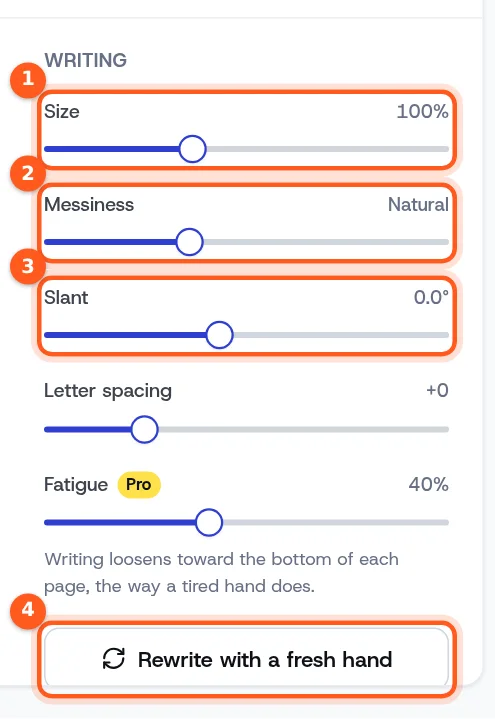
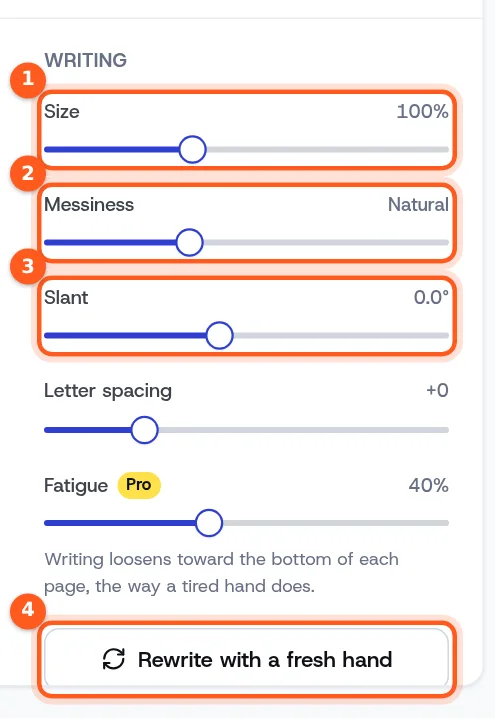
Guide: how to turn your own handwriting into a font
- New starter guide, step by step with screenshots: sign in, fill in the
  template, take the photo, check what was read, save and unlock, write with it,
  or draw the letters on a phone
- Guide screenshots retaken with the current design; the script now signs in
  and captures the handwriting flow too
- Fix the Pro tag stretching beside your handwriting in the Hand picker
- Shorter heading on the drawing pad so it fits on a phone

diff --git a/apps/web/scripts/guide-shots.ts b/apps/web/scripts/guide-shots.ts
@@ -3,14 +3,20 @@
  * the real editor. Each shot outlines and numbers the controls its step talks
  * about. Re-run it whenever the editor changes:
  *
- *   pnpm --filter @truehand/web build && pnpm --filter @truehand/web start
- *   CHROME_PATH=/path/to/chrome pnpm --filter @truehand/web guide:shots http://localhost:3000
+ *   pnpm --filter @truehand/web build && pnpm --filter @truehand/web start > server.log
+ *   GUIDE_SERVER_LOG=server.log CHROME_PATH=/path/to/chrome pnpm --filter @truehand/web guide:shots http://localhost:3000
+ *
+ * Making your own handwriting needs an account, so the script signs in with a
+ * throwaway email and reads the code from the server's log (without an email
+ * provider set up, the server prints the code instead of sending it).
  *
  * Writes public/guides/<name>.webp and src/content/guide-images.json (sizes).
  */
-import { mkdirSync, writeFileSync } from "node:fs";
+import { mkdirSync, readFileSync, writeFileSync } from "node:fs";
+import { tmpdir } from "node:os";
 import { join } from "node:path";
 import { createCanvas, loadImage } from "@napi-rs/canvas";
+import { fakeTemplatePhoto, PHOTO } from "../test/fixtures/fake-photo";
 import { chromium, type Browser, type Locator, type Page } from "playwright-core";
 
 const BASE = (process.argv[2] ?? "http://localhost:3000").replace(/\/$/, "");
@@ -98,12 +104,14 @@ async function shoot(page: Page, name: string, area: Box, pad = 30) {
   console.log(`  ${name}  ${img.width}×${img.height}`);
 }
 
-async function open(browser: Browser, path: string, phone = false) {
-  const context = await browser.newContext(
-    phone
+async function open(browser: Browser, path: string, phone = false, country?: string) {
+  const context = await browser.newContext({
+    ...(phone
       ? { viewport: { width: 390, height: 844 }, deviceScaleFactor: 2, isMobile: true, hasTouch: true, acceptDownloads: true }
-      : { viewport: { width: 1440, height: 1000 }, deviceScaleFactor: 1.5, acceptDownloads: true },
-  );
+      : { viewport: { width: 1440, height: 1000 }, deviceScaleFactor: 1.5, acceptDownloads: true }),
+    // Prices show in the visitor's currency; Vercel says where they are with this header.
+    ...(country ? { extraHTTPHeaders: { "x-vercel-ip-country": country } } : {}),
+  });
   const page = await context.newPage();
   await page.goto(BASE + path, { waitUntil: "load" });
   await page.addStyleTag({ content: CLEAN });
@@ -116,6 +124,69 @@ async function settle(page: Page) {
   await page.waitForTimeout(600);
   await page.waitForFunction(() => !document.querySelector("[data-busy]"), null, { timeout: 30_000 });
   await page.waitForTimeout(900);
+}
+
+/** Signs in with a one-time code read from the server's log, then lands on `next`. */
+async function signIn(page: Page, next: string) {
+  const log = process.env.GUIDE_SERVER_LOG;
+  if (!log) throw new Error("Set GUIDE_SERVER_LOG to the server's log file, so the script can read sign-in codes");
+  await page.goto(`${BASE}/login?next=${encodeURIComponent(next)}`, { waitUntil: "load" });
+  await page.fill("#email", `guide-${Date.now()}@example.com`);
+  const from = readFileSync(log, "utf8").length;
+  await page.click("button[type=submit]");
+  await page.waitForSelector("#code");
+  let code: string | undefined;
+  for (let i = 0; i < 50 && !code; i++) {
+    await page.waitForTimeout(200);
+    code = /(\d{6}) is your Truehand code/.exec(readFileSync(log, "utf8").slice(from))?.[1];
+  }
+  if (!code) throw new Error("No sign-in code in the server log");
+  await page.fill("#code", code);
+  await page.click("button[type=submit]");
+  await page.waitForURL(BASE + next, { timeout: 20_000 });
+  await page.addStyleTag({ content: CLEAN });
+  await page.waitForTimeout(1200);
+}
+
+/**
+ * A filled-in template, photographed at an angle, to upload; and a small copy
+ * of it for the guide, showing what a good photo looks like.
+ */
+async function templatePhoto() {
+  const rgba = fakeTemplatePhoto();
+  const full = createCanvas(PHOTO.width, PHOTO.height);
+  const ctx = full.getContext("2d");
+  const img = ctx.createImageData(PHOTO.width, PHOTO.height);
+  img.data.set(rgba);
+  ctx.putImageData(img, 0, 0);
+  const file = join(tmpdir(), "truehand-guide-photo.jpg");
+  writeFileSync(file, await full.encode("jpeg", 88));
+
+  const width = 700;
+  const height = Math.round((PHOTO.height / PHOTO.width) * width);
+  const small = createCanvas(width, height);
+  small.getContext("2d").drawImage(full, 0, 0, width, height);
+  writeFileSync(join(OUT, "mine-photo.webp"), await small.encode("webp", 82));
+  sizes["mine-photo"] = { width, height };
+  console.log(`  mine-photo  ${width}×${height}`);
+  return file;
+}
+
+/** Draws a small "a" on the drawing pad. */
+async function drawA(page: Page, pad: Locator) {
+  const { x, y, width: w, height: h } = (await pad.boundingBox())!;
+  const at = (px: number, py: number) => page.mouse.move(x + px * w, y + py * h);
+  await at(0.56, 0.47);
+  await page.mouse.down();
+  for (let i = 0; i <= 28; i++) {
+    const a = (-20 + (360 * i) / 28) * (Math.PI / 180);
+    await at(0.46 + 0.1 * Math.cos(a), 0.555 + 0.115 * Math.sin(a));
+  }
+  await page.mouse.up();
+  await at(0.56, 0.44);
+  await page.mouse.down();
+  for (let i = 0; i <= 10; i++) await at(0.56 + 0.01 * (i / 10), 0.44 + 0.22 * (i / 10));
+  await page.mouse.up();
 }
 
 /** Scrolls so the editor's top edge sits just under the sticky site header. */
@@ -277,6 +348,99 @@ async function main() {
   await page.waitForTimeout(500);
   await mark(page, [{ at: await union(page.getByRole("tab", { name: "Style & page" })), n: 1 }]);
   await shoot(page, "phone-style", { x: 0, y: 0, width: 390, height: 844 }, 0);
+  await page.context().close();
+
+  /* ------------------------ Your own handwriting ------------------------ */
+  const photo = await templatePhoto();
+
+  // Signed out: sign in, then the two ways to capture a hand.
+  page = await open(browser, "/my-handwriting", false, "IN");
+  const gate = page.getByRole("heading", { name: "Sign in to make your handwriting" });
+  await gate.waitFor();
+  const paperPath = page.locator("article", { has: page.getByRole("heading", { name: "Write on paper" }) });
+  const drawPath = page.locator("article", { has: page.getByRole("heading", { name: /Draw on screen/ }) });
+  // Clear of the sticky header, with room for the numbered badges.
+  await page.evaluate((top) => window.scrollBy(0, top - 150), (await gate.locator("xpath=../..").boundingBox())!.y);
+  await page.waitForTimeout(400);
+  await mark(page, [
+    { at: await union(gate.locator("xpath=../..")), n: 1 },
+    { at: await union(page.getByRole("button", { name: "Download the template" })), n: 2 },
+    { at: await union(page.getByRole("button", { name: "Upload or take the photo" })), n: 3 },
+    { at: await union(page.getByRole("button", { name: "Start drawing" })), n: 4 },
+  ]);
+  await shoot(page, "mine-start", await union(gate.locator("xpath=../.."), paperPath, drawPath));
+
+  // Signed in: upload the photo and look over what was read.
+  await signIn(page, "/my-handwriting");
+  await page.setInputFiles("input[type=file]", photo);
+  const read = page.getByRole("heading", { name: /^We read \d+ of \d+ characters/ });
+  await read.waitFor({ timeout: 60_000 });
+  await settle(page);
+  await page.evaluate((top) => window.scrollBy(0, top - 150), (await read.boundingBox())!.y);
+  await page.waitForTimeout(400);
+  const grid = page.getByRole("list", { name: "Characters read from your writing" });
+  // The box around the sample page, which crops the page inside it.
+  const handPage = page.getByRole("region", { name: "Your handwriting on a page" }).locator("xpath=..");
+  await mark(page, [
+    { at: await union(read), n: 1 },
+    { at: await union(grid), n: 2 },
+    { at: await union(handPage), n: 3 },
+  ]);
+  await shoot(page, "mine-review", await union(read, grid, handPage));
+
+  const name = page.getByLabel("Name it");
+  const save = page.getByRole("button", { name: /^Save and/ });
+  await name.fill("My handwriting");
+  await save.scrollIntoViewIfNeeded();
+  await page.waitForTimeout(300);
+  await mark(page, [
+    { at: await union(name), n: 1 },
+    { at: await union(save), n: 2 },
+  ]);
+  await shoot(page, "mine-save", await union(name.locator("xpath=.."), save, page.getByText(/^One payment of/)));
+
+  // Saved, and the one payment that unlocks downloads.
+  await save.click();
+  const unlock = page.getByRole("heading", { name: /^Unlock your handwriting/ });
+  await unlock.waitFor();
+  await page.waitForTimeout(900);
+  const card = unlock.locator("xpath=..");
+  await mark(page, [
+    { at: await union(page.getByRole("button", { name: /^Pay .* and unlock$/ })), n: 1 },
+    { at: await union(page.getByRole("button", { name: "Not now, try it in the editor first" })), n: 2 },
+  ]);
+  await shoot(page, "mine-unlock", await union(card), 16);
+
+  // In the editor, it's in the Hand picker.
+  await page.getByRole("button", { name: "Not now, try it in the editor first" }).click();
+  await page.waitForURL(BASE + "/");
+  await page.addStyleTag({ content: CLEAN });
+  await settle(page);
+  await toEditor(page);
+  const handButton = page.getByRole("button", { name: "Handwriting", exact: true });
+  await handButton.click();
+  const picker = page.getByRole("dialog", { name: "Handwriting" });
+  await picker.waitFor();
+  await page.waitForTimeout(500);
+  await mark(page, [{ at: await union(picker.getByRole("button", { name: /^My handwriting/ })), n: 1 }]);
+  await shoot(page, "mine-in-editor", await union(handButton, picker));
+  await page.context().close();
+
+  // No printer: drawing each letter on a phone.
+  page = await open(browser, "/my-handwriting", true, "IN");
+  await signIn(page, "/my-handwriting");
+  await page.getByRole("button", { name: "Start drawing" }).click();
+  const pad = page.locator("canvas[aria-label^='Drawing area']");
+  await pad.waitFor();
+  await page.waitForTimeout(900);
+  await drawA(page, pad);
+  await page.waitForTimeout(300);
+  await mark(page, [
+    { at: await union(pad), n: 1 },
+    { at: await union(page.getByRole("button", { name: "Next" })), n: 2 },
+    { at: await union(page.getByRole("button", { name: "Finish now" })), n: 3 },
+  ]);
+  await shoot(page, "phone-mine-draw", { x: 0, y: 0, width: 390, height: 844 }, 0);
   await page.context().close();
 
   await browser.close();

diff --git a/apps/web/src/content/guides.ts b/apps/web/src/content/guides.ts
@@ -33,12 +33,13 @@ export interface Guide {
 const p = (text: string): GuideBlock => ({ kind: "p", text });
 const list = (...items: string[]): GuideBlock => ({ kind: "list", items });
 const note = (text: string): GuideBlock => ({ kind: "note", text });
+const steps = (...items: string[]): GuideBlock => ({ kind: "steps", items });
 
 type Shot = keyof typeof shots;
 /** A screenshot from public/guides, made by scripts/guide-shots.ts. */
-const shot = (name: Shot, alt: string, caption?: string): GuideBlock => ({
+const shot = (name: Shot, alt: string, caption?: string, narrow = name.startsWith("phone-")): GuideBlock => ({
   kind: "image",
-  image: { src: `/guides/${name}.webp`, ...shots[name], alt, caption, narrow: name.startsWith("phone-") },
+  image: { src: `/guides/${name}.webp`, ...shots[name], alt, caption, narrow },
 });
 /** A finished page, rendered by the engine at build time. */
 const sample = (name: string, alt: string, caption?: string): GuideBlock => ({
@@ -71,7 +72,7 @@ export const GUIDES: Guide[] = [
       "Type or paste your text on the left, pick a handwriting, paper and pen, check the preview on the right, and press Download. It's free, works on a laptop or phone, and needs no sign-up.",
     minutes: 3,
     updated: UPDATED,
-    related: ["typed-assignment-to-handwriting", "use-truehand-on-your-phone"],
+    related: ["typed-assignment-to-handwriting", "make-your-own-handwriting-font", "use-truehand-on-your-phone"],
     cta: { href: "/", label: "Make my first page" },
     sections: [
       {
@@ -127,6 +128,116 @@ export const GUIDES: Guide[] = [
       { q: "Do I need an account?", a: "No. You only need one if you buy a plan or a page pack, so your purchase is saved." },
       TEXT_PRIVATE,
       PRO_SELECTED,
+    ],
+  },
+  {
+    slug: "make-your-own-handwriting-font",
+    title: "How do I turn my own handwriting into a font?",
+    description:
+      "Write one page by hand, or draw the letters on your phone, and Truehand writes anything you type in your own handwriting. Step by step, with screenshots.",
+    answer:
+      "Sign in, print the one-page template, write one letter in each box and upload a photo of it. Truehand reads every letter and writes whatever you type in your own hand. No printer? Draw the letters on your phone instead.",
+    minutes: 3,
+    updated: UPDATED,
+    related: ["getting-started", "make-it-look-real", "typed-assignment-to-handwriting"],
+    cta: { href: "/my-handwriting", label: "Make my handwriting" },
+    sections: [
+      {
+        heading: "Step 1: Sign in and pick how to write",
+        blocks: [
+          p(
+            "Open Your own handwriting and sign in with Google or your email (1). The account keeps your handwriting safe and lets you use it on any device. Then download the template (2) to print, and upload a photo of it (3) once it's filled in. No printer? Choose Start drawing (4) and skip to the last part of this guide.",
+          ),
+          shot("mine-start", "The Your own handwriting page with sign-in, the template, photo upload and drawing marked"),
+        ],
+      },
+      {
+        heading: "Step 2: Fill in the template",
+        blocks: [
+          steps(
+            "Print the template on A4 at Actual size.",
+            "Use a dark pen. Black or blue gel pens work best; pencil is too faint.",
+            "Write one character in each box, sitting on the small marks at the sides of the box.",
+            "Write the way you normally do. The small letters appear twice, so the same letter doesn't look identical every time.",
+          ),
+        ],
+      },
+      {
+        heading: "Step 3: Take the photo",
+        blocks: [
+          list(
+            "Lay the page flat in good, even light, with no shadow across it.",
+            "Get the whole page in the photo, with all four black squares in view.",
+            "Hold the phone above the page. A slight angle is fine; Truehand straightens it.",
+          ),
+          shot(
+            "mine-photo",
+            "A photo of a filled-in template, taken at a slight angle",
+            "A good photo: the whole page, all four black squares, even light.",
+            true,
+          ),
+        ],
+      },
+      {
+        heading: "Step 4: Check what was read",
+        blocks: [
+          p(
+            "Your photo is read on your own device and never uploaded. You'll see how many characters were read (1), every letter as it was read (2), and a page written in your new handwriting (3).",
+          ),
+          shot("mine-review", "The results: characters read, each letter, and a sample page in the new handwriting"),
+        ],
+      },
+      {
+        heading: "Step 5: Name it and save",
+        blocks: [
+          p("Give it a name (1) and press Save (2)."),
+          shot("mine-save", "The name field and the Save button"),
+          p(
+            "Saving asks for a one-time payment that unlocks downloads in your handwriting for good (1). It's ₹49 in India, and every plan includes it. Not ready to pay? Choose Not now (2) to try it in the editor first.",
+          ),
+          shot("mine-unlock", "The unlock step, with the payment button and the Not now link"),
+        ],
+      },
+      {
+        heading: "Step 6: Write with it",
+        blocks: [
+          p(
+            "In the editor, open the Hand picker: your handwriting is at the top (1). Type anything and it comes out in your hand, every letter a little different.",
+          ),
+          shot("mine-in-editor", "The Hand picker with your own handwriting at the top"),
+        ],
+      },
+      {
+        heading: "No printer? Draw the letters on your phone",
+        blocks: [
+          p(
+            "Choose Start drawing and write each character on the pad (1), sitting on the dotted line. Tap Next (2) for the next one. Small letters come first, since they fill most of a page. Finish now (3) works once you've drawn 10.",
+          ),
+          shot("phone-mine-draw", "The drawing pad on a phone, with the pad, Next and Finish now marked"),
+          note(
+            "Draw all 26 small letters for a page that looks fully like yours. Letters you skip are written in the default hand, and a capital you drew stands in for its small letter.",
+          ),
+        ],
+      },
+    ],
+    faqs: [
+      {
+        q: "Some letters weren't found. What do I do?",
+        a: "Retake the photo in brighter, even light, with the page flat and all four black squares in view. Boxes left empty or written too faintly are skipped and written in the default hand.",
+      },
+      {
+        q: "It says it can't find the four black squares.",
+        a: "Get the whole page in the photo with a little space around it, and make sure nothing covers the corners. Move away from strong shadows and try again.",
+      },
+      {
+        q: "Is my photo uploaded?",
+        a: "No. The photo is read on your device. Only the shapes of your letters are saved, to your account, so your handwriting works on your other devices too.",
+      },
+      {
+        q: "What does it cost?",
+        a: "Making your handwriting and trying it in the editor is free. Downloading pages written in it is a one-time payment (₹49 in India, $1.99 in the US), and every plan includes it. One payment covers every handwriting you make.",
+      },
+      { q: "Can I make more than one?", a: "Yes, up to 20. Each one appears at the top of the Hand picker." },
     ],
   },
   {

diff --git a/apps/web/src/editor/Pickers.tsx b/apps/web/src/editor/Pickers.tsx
@@ -32,7 +32,7 @@ export function HandList({ value, onPick }: { value: string; onPick: (id: string
         {mine.map((h) => (
           <button key={h.id} type="button" className={s.mineHand} aria-pressed={value === MINE_PREFIX + h.id} onClick={() => onPick(MINE_PREFIX + h.id)}>
             <PenLine aria-hidden="true" />
-            <span>{h.name}</span>
+            <span className={s.mineName}>{h.name}</span>
             {!canUseStyle(entitlements, MINE_PREFIX + h.id, "pro") && <ProTag />}
           </button>
         ))}

diff --git a/apps/web/src/myhand/DrawPad.tsx b/apps/web/src/myhand/DrawPad.tsx
@@ -134,7 +134,7 @@ export function DrawPad({
     <div className={s.pad} ref={root}>
       <div className={s.padHead}>
         <p>
-          Write <strong className={s.padChar}>{char}</strong> sitting on the dotted line
+          Write <strong className={s.padChar}>{char}</strong> on the dotted line
         </p>
         <span className={s.padCount}>
           {index + 1} / {DRAW_CHARS.length}

diff --git a/apps/web/src/editor/Pickers.module.css b/apps/web/src/editor/Pickers.module.css
@@ -61,7 +61,8 @@
   cursor: pointer;
 }
 
-.mineHand span {
+/* Only the name grows; the Pro tag keeps its own size. */
+.mineName {
   flex: 1;
   font-weight: 600;
 }

diff --git a/apps/web/src/myhand/myhand.module.css b/apps/web/src/myhand/myhand.module.css
@@ -116,6 +116,8 @@
 }
 
 .padCount {
+  flex: none;
+  white-space: nowrap;
   font-family: var(--font-mono);
   font-size: 13px;
   color: var(--ink-3);
